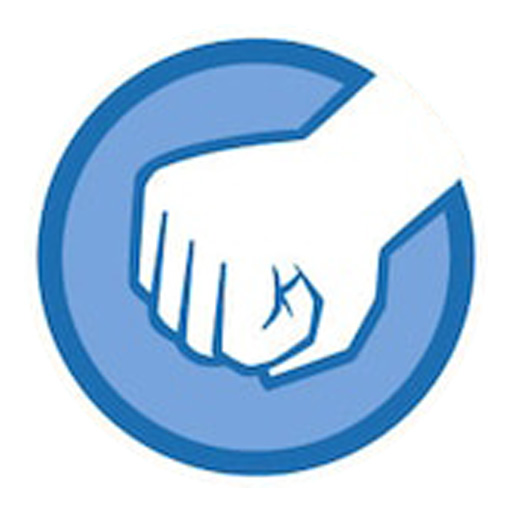
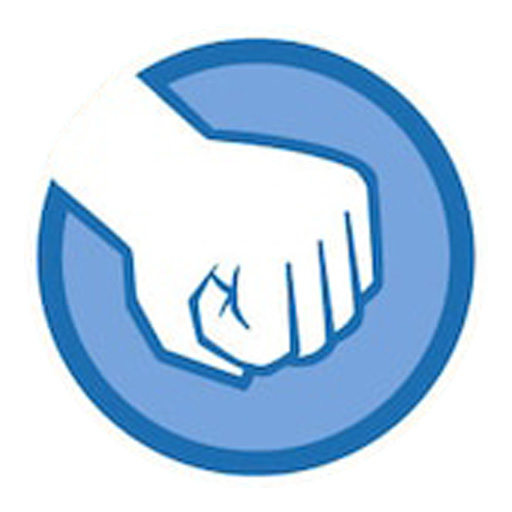
Add game score and reupload Rock and Scissors images to face the correct way

diff --git a/index.html b/index.html
@@ -7,12 +7,17 @@
     <title>Rock-Paper-Scissors-Lizzard-Spok</title>
 </head>
 <body>
+    
     <section class="container">
         
         <div class="result_field">
             <div class="heading">
                 <p>Welcome to the game of</p>
                 <p>Rock Paper Scissors Lizzard Spok</p>
+            </div>
+            <div class="score-area">
+                <p class="scores">Player Wins <span id="player_score">0</span></p>
+                <p class="scores">Computer Wins <span id="computer_score">0</span></p>
             </div>
             <div class="result_images">
                 <span class="user_result">

diff --git a/assets/css/style.css b/assets/css/style.css
@@ -24,8 +24,17 @@ body {
 .heading {
     text-align: center;
     font-size: 2rem;
-    font-weight: 400;
-    
+    font-weight: 400;    
+}
+
+#player_score {
+    color: green;
+    font-weight: bold;
+}
+
+#computer_score {
+    color: red;
+    font-weight: bold;
 }
 
 .container{
